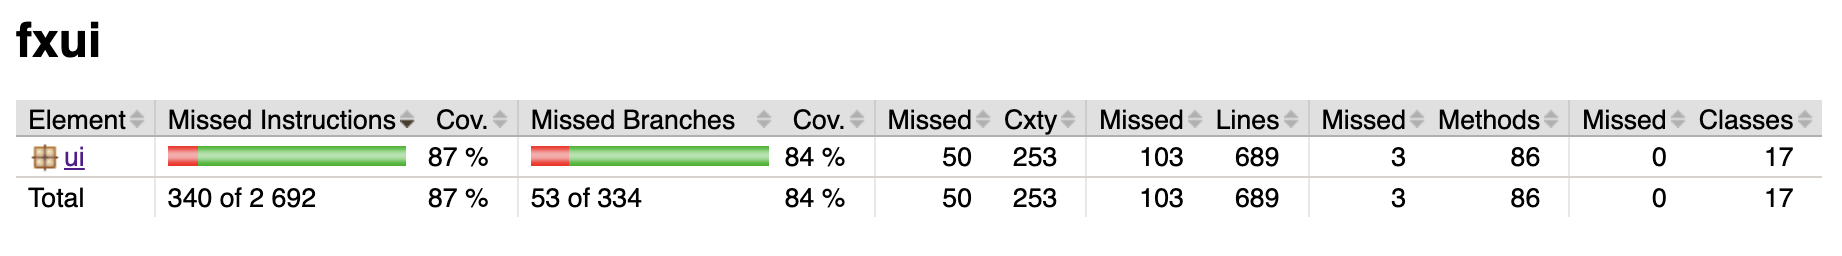
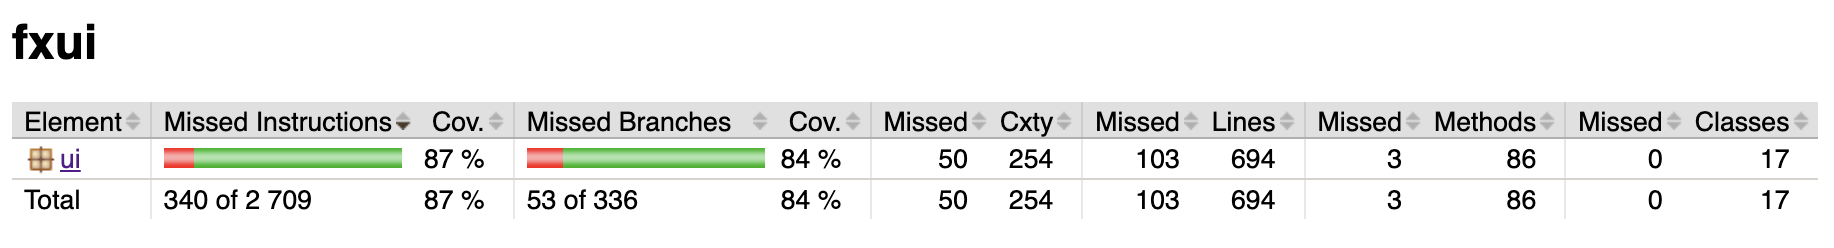
fix(ui): fix validate username
Needed for correct username validation

#146

Changed region(s): [[0.0, 0.3669, 0.9945, 0.8468], [0.0, 0.0847, 0.0622, 0.254], [0.8702, 0.7621, 0.9324, 0.8185]]

diff --git a/flashcards/fxui/src/test/java/ui/FlashcardSignUpControllerTest.java b/flashcards/fxui/src/test/java/ui/FlashcardSignUpControllerTest.java
@@ -1,5 +1,6 @@
 package ui;
 
+import static org.junit.jupiter.api.Assertions.assertEquals;
 import static org.junit.jupiter.api.Assertions.assertFalse;
 import static org.junit.jupiter.api.Assertions.assertNotNull;
 import static org.junit.jupiter.api.Assertions.assertTrue;
@@ -136,6 +137,15 @@ public class FlashcardSignUpControllerTest {
     // Empty confirm password only
     assertFalse((Boolean) method.invoke(controller, "username", "password", ""));
     Thread.sleep(50);
+
+    // Invalid username characters
+    assertFalse((Boolean) method.invoke(controller, "invalid user", "password123", "password123"));
+    Thread.sleep(50);
+
+    var alertField = FlashcardSignUpController.class.getDeclaredField("alertMessage");
+    alertField.setAccessible(true);
+    Text alert = (Text) alertField.get(controller);
+    assertEquals(ApiConstants.INVALID_USERNAME, alert.getText());
   }
 
   /**

diff --git a/flashcards/shared/src/main/java/shared/ApiConstants.java b/flashcards/shared/src/main/java/shared/ApiConstants.java
@@ -94,6 +94,8 @@ public class ApiConstants {
   public static final String DECK_NAME_EMPTY = "Deck name cannot be empty";
   public static final String FLASHCARD_QUESTION_ANSWER_EMPTY = 
       "Flashcard question and answer cannot be empty";
+  public static final String INVALID_USERNAME =
+      "Username can only contain\nletters and numbers";
 
   /** System error messages. */
   public static final String SERVER_ERROR = "Server Error";

diff --git a/flashcards/fxui/src/main/java/ui/FlashcardSignUpController.java b/flashcards/fxui/src/main/java/ui/FlashcardSignUpController.java
@@ -117,6 +117,12 @@ public class FlashcardSignUpController {
       return false;
     }
 
+    // Check for invalid username characters
+    if (!username.matches("[A-Za-z0-9]+")) {
+      showInlineError(ApiConstants.INVALID_USERNAME);
+      return false;
+    }
+
     // Check if passwords match
     if (!password.equals(confirmedPassword)) {
       showInlineError(ApiConstants.PASSWORDS_NOT_EQUAL);

diff --git a/flashcards/shared/src/test/java/shared/ApiConstantsTest.java b/flashcards/shared/src/test/java/shared/ApiConstantsTest.java
@@ -167,6 +167,8 @@ public class ApiConstantsTest {
     assertEquals("Deck name cannot be empty", ApiConstants.DECK_NAME_EMPTY);
     assertEquals("Flashcard question and answer cannot be empty", 
         ApiConstants.FLASHCARD_QUESTION_ANSWER_EMPTY);
+    assertEquals("Username can only contain\nletters and numbers", 
+        ApiConstants.INVALID_USERNAME);
   }
 
   /**
